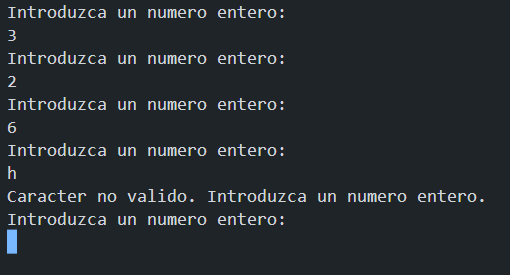
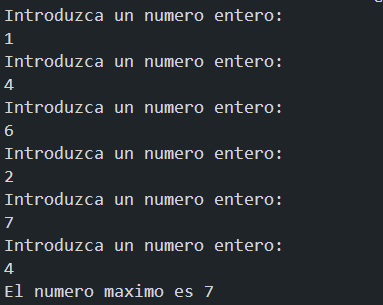
Tareas

diff --git a/EjerciciosLibroJava/Tema14.2/Ej1Cap14_2/NumMax.java b/EjerciciosLibroJava/Tema14.2/Ej1Cap14_2/NumMax.java
@@ -12,7 +12,7 @@ public class NumMax {
     int num=0;
 
     //El siguiente bucle for pedirá 6 número al usuario y creamos una variable booleana.
-    for (int i = 0; i<=5; i++ ); {
+    for (int i = 0; i<=5; i++ ) {
       boolean verdadero= false;
       
       //El siguiente bucle do-while se ejecutará hasta que se introduzca un numero valido (es decir, numero entero).
@@ -25,6 +25,9 @@ public class NumMax {
           if (num>max) {
             max=num;
           }
+
+          verdadero=true;
+          
           //Si no se introduce un numero entero no será valido y se mostrará un mensaje comunicandolo. 
         } catch (Exception e) {
           System.out.println("Caracter no valido. Introduzca un numero entero.");
